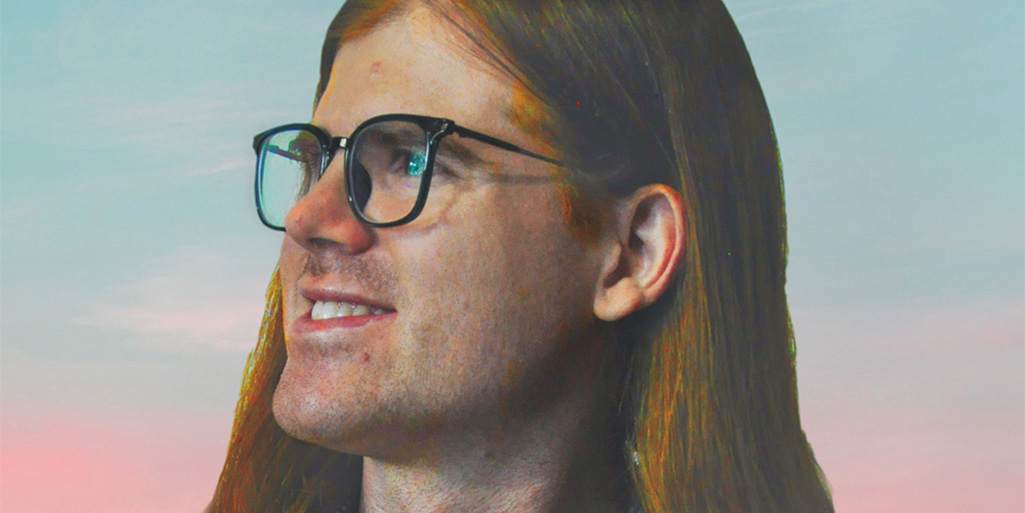
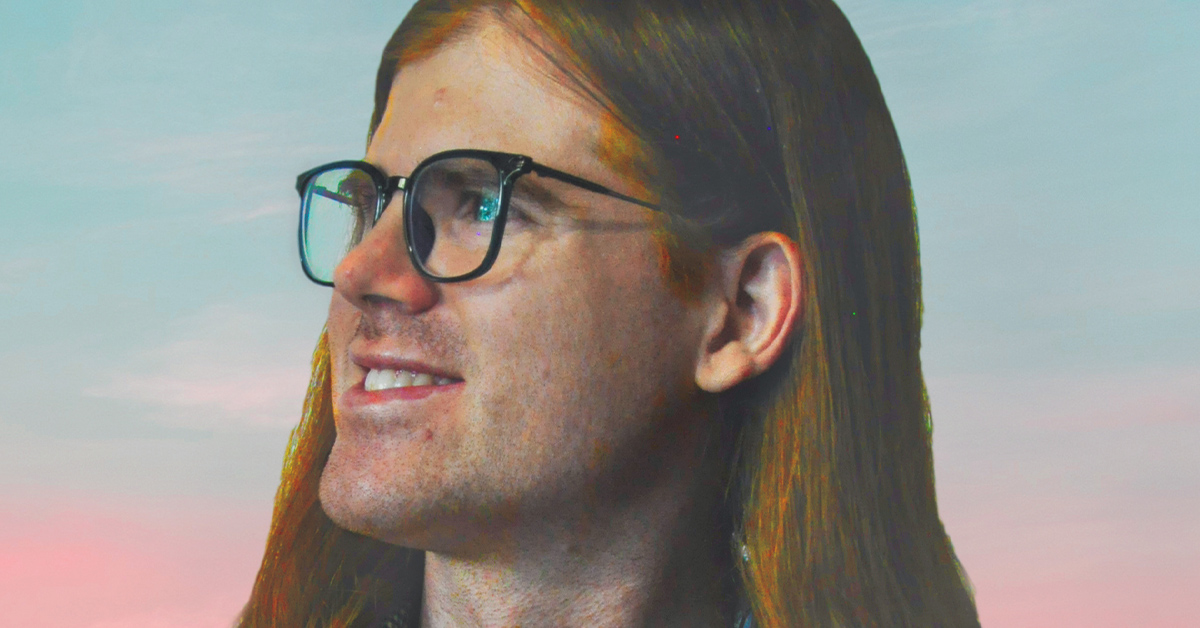
fixing that seo image

diff --git a/_includes/head.html b/_includes/head.html
@@ -29,7 +29,7 @@
   <meta property="og:image" content="{{ page.banner_image }}" />
   <meta property="twitter:image" content="{{ site.url }}{{ page.banner_image }}">
   {% else %}
-  <meta property="og:image" content="{{ "assets/img/social.jpg" | absolute_url }}" />
+  <meta property="og:image" content="{{ "/assets/img/social.jpg" | absolute_url }}" />
   <meta property="twitter:image" content="{{ "/assets/img/social.jpg" | absolute_url }}" />
   {% endif %}
   <!--     Fonts and icons     -->
